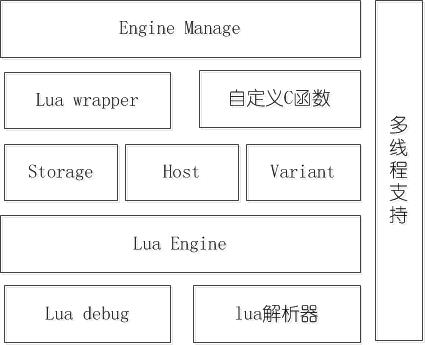
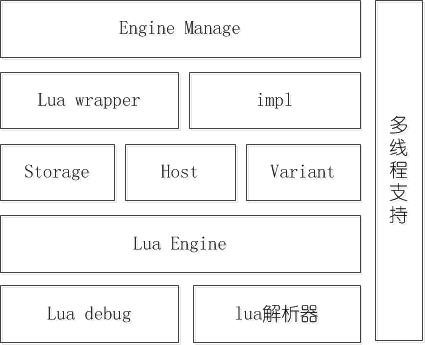
change image struct

diff --git a/README.md b/README.md
@@ -1,15 +1,25 @@
 # Luaband
-整体结构![image](https://github.com/murisly/luaband/blob/master/img/struct.jpg)
+整体结构
+
+![image](https://github.com/murisly/luaband/blob/master/img/struct.jpg)
 
 本项目用visual studio 2012 编译，需要用到部分windows头文件。
 
-1.lua源码封装在LuaEngine中，用于与lua_State进行交互，并添加第三方库。
+1.lua解析器为lua源代码，目前是用的是5.2.3，可以更新。lua debug 为解析出错时，捕捉解析器抛出的错误信息
 
-2.LuaManage，wrapper，impl用于预处理脚本(支持自定义加密算法，来源)，预处理挂载点（hook函数），自定义C函数。
+2.lua Engine 对 [lua C API](http://www.lua.org/manual/5.3/)的封装，负责与与lua_State进行交互。
 
-3.CLuaEngineImpl中用于自定义C函数，实现不用基本功能。
+3.Storage对脚本文件抽象，可以来自文件，网络或者内存。可自定义脚本加密解密，以及预编译。
 
-4.TVariant实现lua中变量转换到C中变量。
+4.Host对脚本执行点的挂载，hook脚本进入，执行，完结各个时间点。
+
+5.Variant实现lua中变量转换到C中变量，lua调用c函数参数传递的原型。
+
+6.wrapper负责组织storage和host。
+
+7.impl为用户自定义C函数部分，其中实现一个Print函数。可添加自定义C函数。
+
+8.Engine Manage 负责管理wrapper、impl，为最终暴露给用户的接口。
 
 # example
 CLuaEngineImpl中的print为自定义打印函数
